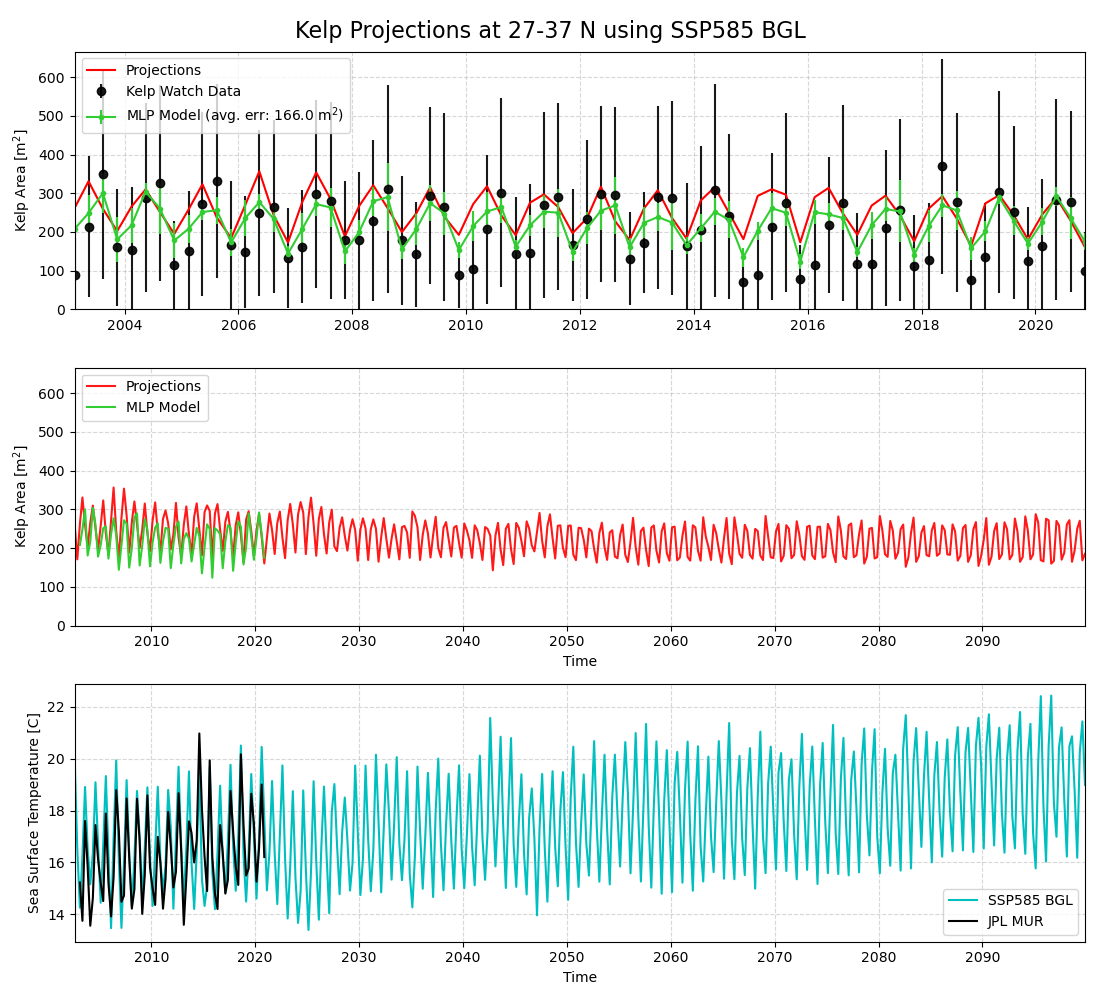
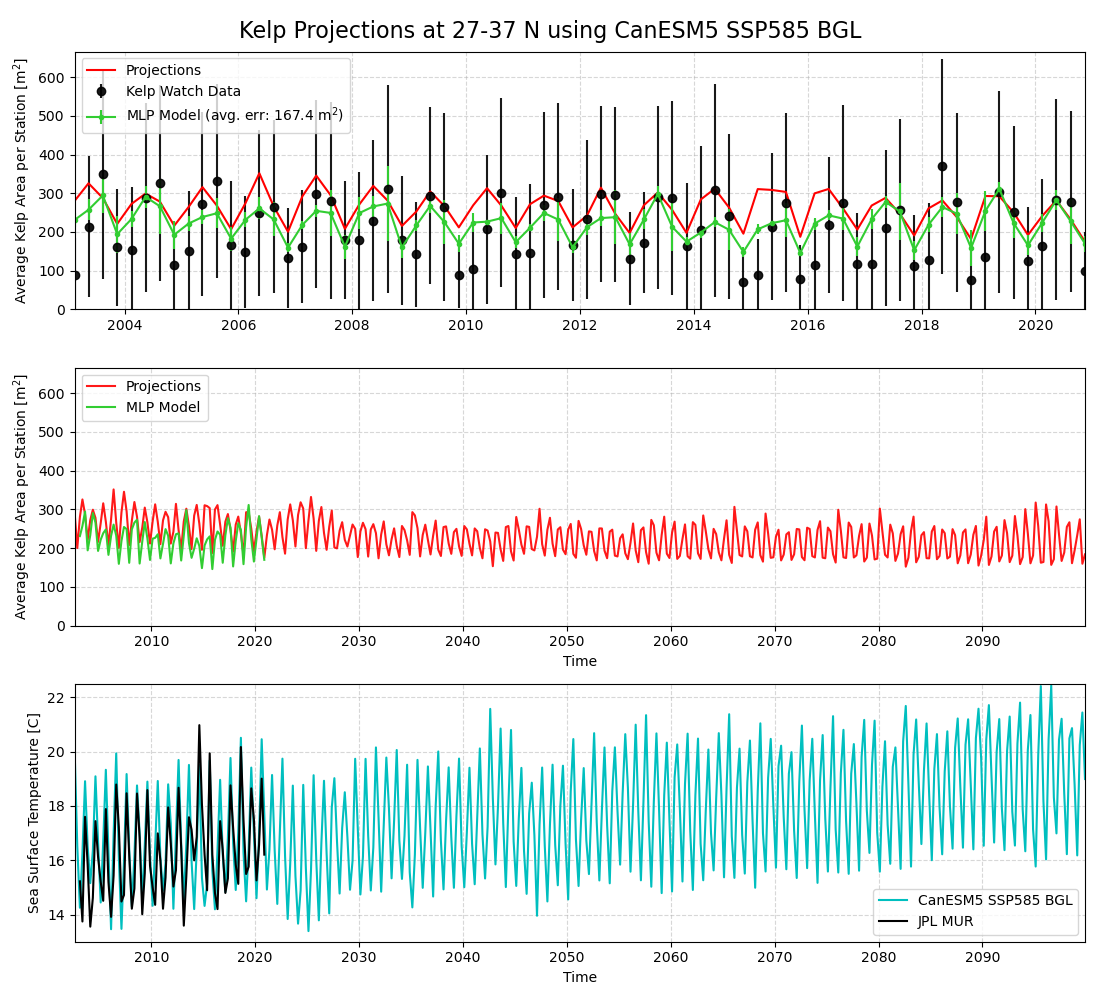
new figures + docs

diff --git a/regressors_predict.py b/regressors_predict.py
@@ -21,10 +21,10 @@ if __name__ == "__main__":
     parser.add_argument('-m', '--model', type=str, 
                         help='model type (OLS or MLP)',
                         default="OLS")
-    # sunlight bool
-    parser.add_argument('-s', '--sunlight', type=bool, 
-                        help='use sunlight as feature',
-                        default=False)
+    # sunlight bool default false
+    parser.add_argument('-s', '--sunlight', action='store_true',
+                        help='use sunlight as input feature')
+    
     args = parser.parse_args()
 
     # load data from disk
@@ -169,7 +169,7 @@ if __name__ == "__main__":
         # fit a linear model to the data with OLS
         # 500 - 22930.63165755
 
-        mlp = MLPRegressor(hidden_layer_sizes=(4,), max_iter=100, alpha=0.001, solver='adam', verbose=True)
+        mlp = MLPRegressor(hidden_layer_sizes=(4,2), max_iter=150, alpha=0.001, solver='adam', verbose=True)
         mlp.fit(Xp, y)
         y_ols_train = mlp.predict(Xp)
         y_ols_test = mlp.predict(Xp_test)
@@ -277,6 +277,8 @@ if __name__ == "__main__":
     plt.tight_layout()
     file_name = args.file_path_sim.replace('.pkl', '_regressors.png')
     file_name = file_name.replace('metrics', args.model)
+    if args.sunlight:
+        file_name = file_name.replace('regressors', 'sunlight_regressors')
     plt.savefig(file_name)
     print(f"Saved {file_name}")
     plt.close()

diff --git a/README.md b/README.md
@@ -102,13 +102,16 @@ The largest correlations with kelp abundace are the temperatures with a one quar
 |-|-|-|-|
 | Correlation coefficient for One Quater Lag | -0.80 | -0.78 | -0.83 |
 ||||
-| Slope of trend line with one quater lag (m^2/C) | -42.40 +- 4.04 | -21.09 +- 3.04 | -36.10 +- 2.99 |
+| Slope of trend line with one quater lag (m^2/C) | -40.15 +- 4.04 | -29.90 +- 3.04 | -35.39 +- 2.99 |
 ||||
 | Temperature when kelp abundance is zero using a quarter lag (C) (T0) | 23.49 +- 2.33 | 21.23 +- 3.09 | 22.36 +- 2.93 |
 ||||
 | Year at which avg. temp reaches T0 | 2059.33 +- 20.50 | 2106.94 +- 51.45 | 2083.83 +- 35.07  |
 |![](Data/kelp_metrics_27_32_lag_correlation.png) | ![](Data/kelp_metrics_32_37_lag_correlation.png) | ![](Data/kelp_metrics_27_37_lag_correlation.png) |
 |![](Data/kelp_metrics_27_32_quarterly_lag.png) | ![](Data/kelp_metrics_32_37_quarterly_lag.png) | ![](Data/kelp_metrics_27_37_quarterly_lag.png) |
+
+The temperature at which the kelp abundance reaches 0 is different by 0.58 sigma. It's unclear if the northern kelp is more resilient to temperature changes than the southern kelp. We're assuming they're the same species of giant kelp. The range of temperatures can vary from about 14-23C between ~27-37N along the coast of California. The kelp seems to be responding well to the temperature changes in the simulation data. The temperature fluctuations vary by about 8C in the simulation data and 7C in the JPL Mur observations. The kelp seems to be responding well to the temperature changes in the simulation data which only go up to ~22C
+
 
 
 # Predictions with Machine Learning
@@ -155,22 +158,37 @@ Follow these steps to create a new linear regression model from Kelp Watch + MUR
 
     `python regressors_predict.py -f Data/kelp_metrics_27_37.pkl -fs Data/kelp_metrics_sim_27_37_ssp126_BGL.pkl`
 
-| Without sunlight feature | With sunlight feature |
+The sunlight feature can be toggled through the command line when running `regressors_predict.py`. Below are a few results using different regression models and different climate models.
+-  OLS - Ordinary Least Squares
+-  MLP - Multi-Layer Perceptron
+
+| Without sunlight feature (OLS) | With sunlight feature (OLS) |
 |---|---|
-| ![](Data/kelp_OLS_sim_27_37_CanESM5_ssp585_BGL_regressors_nosunlight.png) | ![](Data/kelp_OLS_sim_27_37_CanESM5_ssp585_BGL_regressors.png) |
+| ![](Data/kelp_OLS_sim_27_37_CanESM5_ssp585_BGL_regressors.png) | ![](Data/kelp_OLS_sim_27_37_CanESM5_ssp126_BGL_sunlight_regressors.png) |
+| ![](Data/kelp_OLS_sim_27_37_CanESM5_ssp126_BGL_regressors.png) | ![](Data/kelp_OLS_sim_27_37_CanESM5_ssp585_BGL_sunlight_regressors.png) |
+| ![](Data/kelp_OLS_sim_27_37_GFDL-ESM4_ssp126_BGL_regressors.png) | ![](Data/kelp_OLS_sim_27_37_GFDL-ESM4_ssp126_BGL_sunlight_regressors.png) |
+| ![](Data/kelp_OLS_sim_27_37_GFDL-ESM4_ssp585_BGL_regressors.png) | ![](Data/kelp_OLS_sim_27_37_GFDL-ESM4_ssp585_BGL_sunlight_regressors.png) |
 
 
-The sunlight feature can be toggled through the command line when running `regressors_predict.py`
+| Without sunlight feature (MLP) | With sunlight feature (MLP) |
+|---|---|
+| ![](Data/kelp_mlp_sim_27_37_CanESM5_ssp585_BGL_regressors.png) | ![](Data/kelp_mlp_sim_27_37_CanESM5_ssp126_BGL_sunlight_regressors.png) |
+| ![](Data/kelp_mlp_sim_27_37_CanESM5_ssp126_BGL_regressors.png) | ![](Data/kelp_mlp_sim_27_37_CanESM5_ssp585_BGL_sunlight_regressors.png) |
+| ![](Data/kelp_mlp_sim_27_37_GFDL-ESM4_ssp126_BGL_regressors.png) | ![](Data/kelp_mlp_sim_27_37_GFDL-ESM4_ssp126_BGL_sunlight_regressors.png) |
+| ![](Data/kelp_mlp_sim_27_37_GFDL-ESM4_ssp585_BGL_regressors.png) | ![](Data/kelp_mlp_sim_27_37_GFDL-ESM4_ssp585_BGL_sunlight_regressors.png) |
+
+In all cases, when including sunlight as a feature, it gets a slightly better training error on our data but imposes this large negative slope compared to just the temperature-only model.
 
 ### Varying the Climate model
 
-These plots show various projections without the sunlight feature
+These plots show various projections without the sunlight feature. These plots use no sunlight feature and are made with the linear regression model. Within our region of interest we're assuming the same species of giant kelp. The range of temperatures can vary from about 14-23C between ~27-37N along the coast of California. The kelp seems to be responding well to the temperature changes in the simulation data. The temperature fluctuations vary by about 8C in the simulation data and 9C in the JPL Mur observations. Even projecting with the worst-case emission scenario the kelp remains relatively unphased by the temperature fluctations. The simulation data maxes out at a temperature around 22C while the measurements the regression model was trained on max out at 23C.
 
 | CanESM5 | GFDL-ESM4 |
 | --- | --- |
 | ![](Data/kelp_OLS_sim_27_37_CanESM5_ssp126_BGL_regressors.png) | ![](Data/kelp_OLS_sim_27_37_GFDL-ESM4_ssp126_BGL_regressors.png) |
 | ![](Data/kelp_OLS_sim_27_37_CanESM5_ssp585_BGL_regressors.png) | ![](Data/kelp_OLS_sim_27_37_GFDL-ESM4_ssp585_BGL_regressors.png) |
 
+There is a little to no difference between the projections from the two climate models. The kelp seems to be responding well to the temperature changes in every climate scenario. I think this speaks to the resilience of the plant. The model used for these is ordinary least squards.
 
 # Datasets
 
